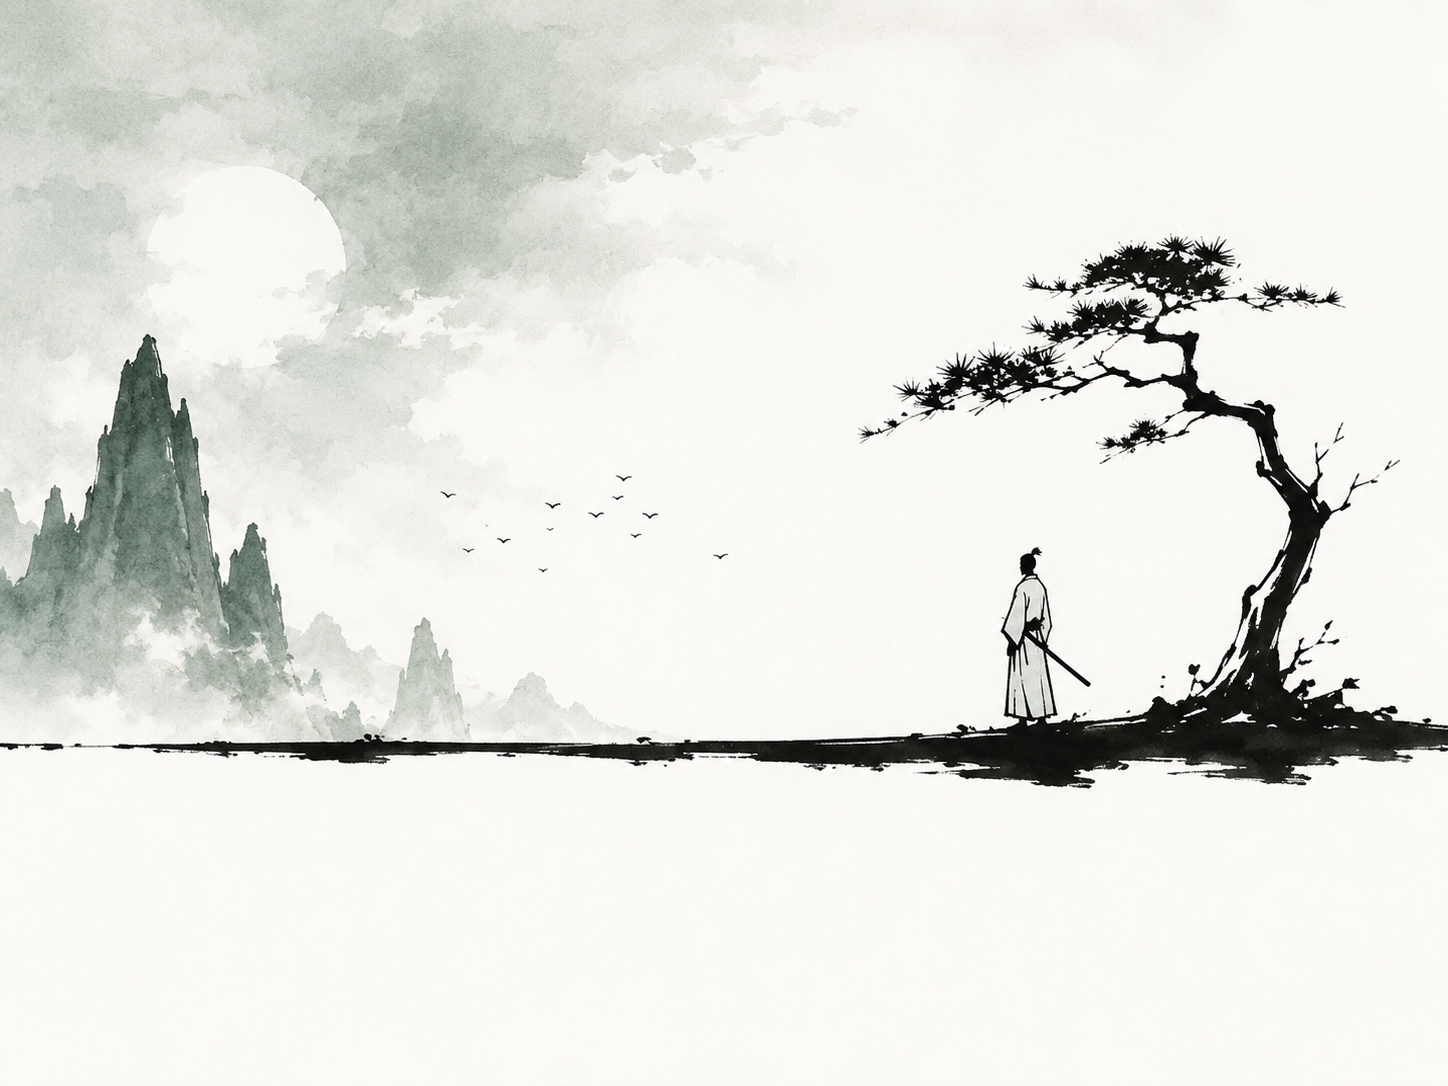
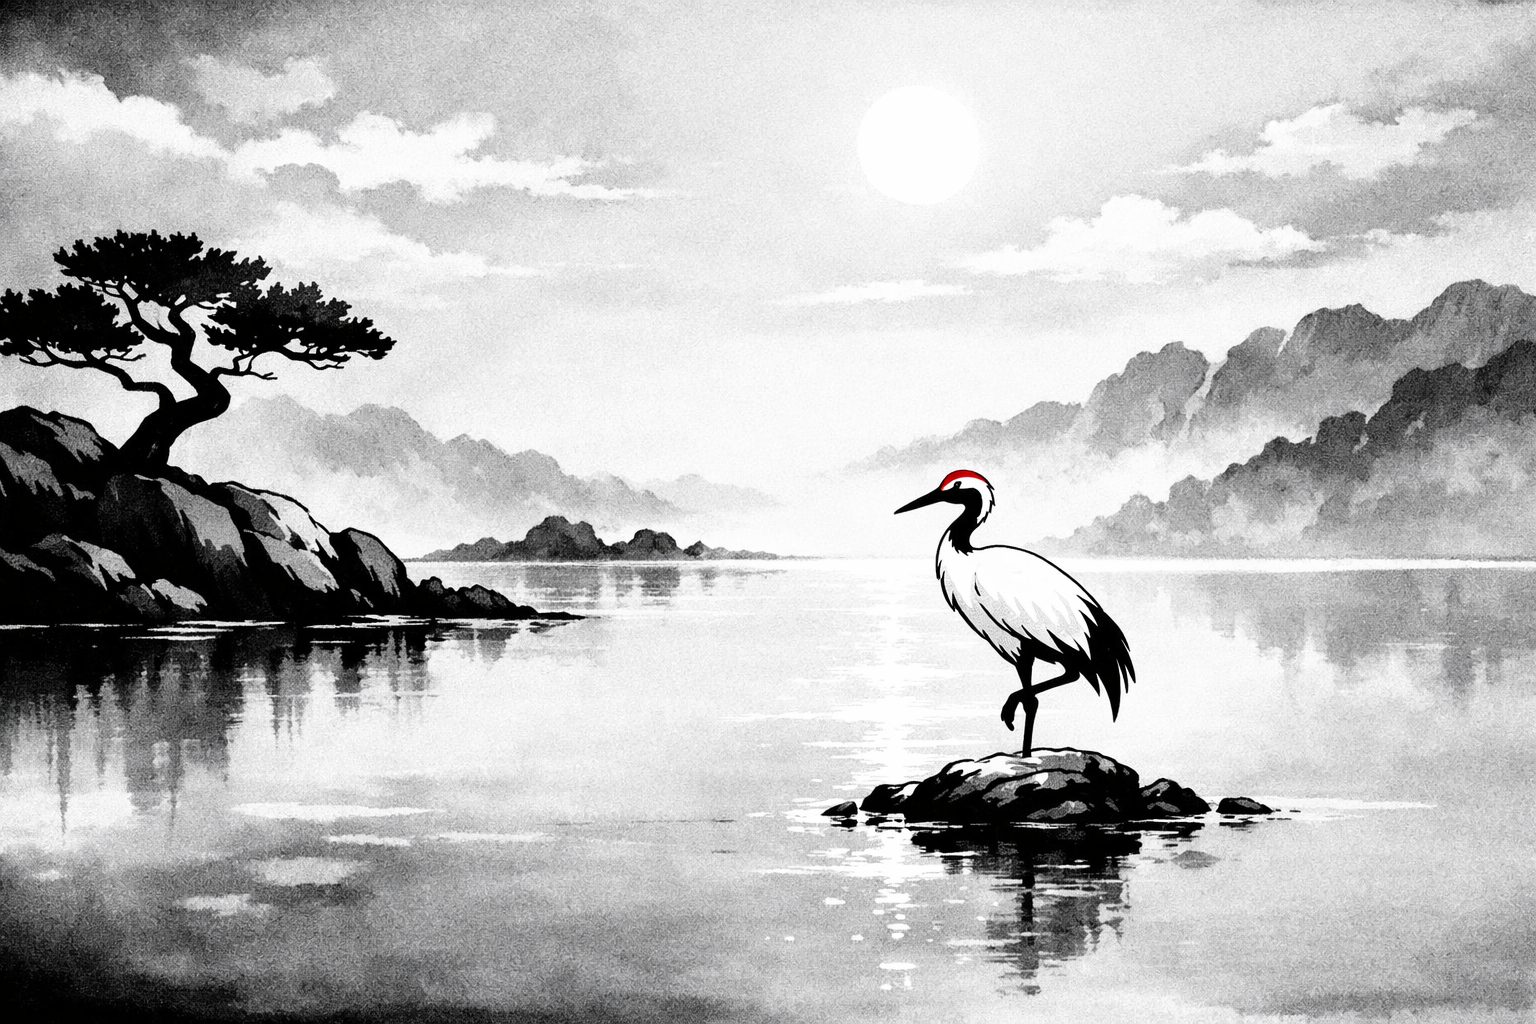
Added in the final image for the project, used the dominant colors for each tradition as an inset box-shadow, added the readme to complete the project

diff --git a/01-responsive-web-design/07-flexbox-photo-gallery/styles.css b/01-responsive-web-design/07-flexbox-photo-gallery/styles.css
@@ -58,6 +58,26 @@ body {
     border-radius: 8px;
 }
 
+.taoism {
+    box-shadow: 0 4px 12px rgba(0, 0, 0, 0.4), inset 0 0 10px rgba(80, 200, 120, 0.5);
+}
+
+.shintoism {
+    box-shadow: 0 4px 12px rgba(0, 0, 0, 0.4), inset 0 0 10px rgba(220, 20, 60, 0.5);
+}
+
+.neo-confucianism {
+    box-shadow: 0 4px 12px rgba(0, 0, 0, 0.4), inset 0 0 10px rgba(30, 144, 255, 0.5);
+}
+
+.buddhism {
+    box-shadow: 0 4px 12px rgba(0, 0, 0, 0.4), inset 0 0 10px rgba(255, 215, 0, 0.5);
+}
+
+.zen {
+    box-shadow: 0 4px 12px rgba(0, 0, 0, 0.4), inset 0 0 10px rgba(252, 252, 252, 0.5);
+}
+
 figcaption {
     margin-top: 0.75rem;
     line-height: 1.4;

diff --git a/01-responsive-web-design/07-flexbox-photo-gallery/index.html b/01-responsive-web-design/07-flexbox-photo-gallery/index.html
@@ -8,7 +8,7 @@
     </head>
     <body>
 
-        <h1>Flexbox Photo Gallery</h1>
+        <h1>Five Harmonies</h1>
 
         <section class = "gallery">    
             <figure class = "taoism picture">

diff --git a/01-responsive-web-design/07-flexbox-photo-gallery/README.md b/01-responsive-web-design/07-flexbox-photo-gallery/README.md
@@ -1,0 +1,41 @@
+Five Harmonies — Flexbox Photo Gallery
+
+    A themed photo gallery built as part of my Reimagined Coddy HTML & CSS Projects set. This is Project 07 in my responsive web   design learning path.
+
+About the Project
+
+    Five Harmonies is a spiritual gallery exploring five Eastern philosophical traditions — Taoism, Shinto, Neo-Confucianism, Buddhism, and Zen. Each tradition is represented by two images showing a seed-to-bloom progression: the first image introduces a core concept, the second builds on it.
+    The ten gallery images were generated using AI image generation tools (Microsoft Copilot) by crafting detailed prompts specifying style, palette, composition, and aspect ratio. The visual style draws from Samurai Jack's bold ink-line structure combined with Studio Ghibli's atmospheric watercolour washes, with each tradition carrying its own dominant colour.
+
+Tech Used
+
+    -HTML5 (semantic elements: section, figure, figcaption)
+    -CSS3 (Flexbox, media queries, CSS reset)
+
+What I Learned:
+
+    -Flexbox layout
+
+    -Using display: flex and flex-wrap: wrap to create a responsive multi-column gallery
+    -Understanding flex: grow shrink basis and how each value affects item sizing
+    -Using justify-content: center to centre cards with breathing room on either side
+    -Why * { box-sizing: border-box } is essential — padding was causing items to overflow their flex-basis width and preventing two columns from fitting on a row
+
+Responsive design
+
+    -Implemented a @media (max-width: 600px) breakpoint that switches the gallery from two cards per row to one card per row on mobile
+    -Disabled the hover lift effect on mobile inside the same breakpoint since hover doesn't apply to touch devices
+
+Images and object-fit
+
+    -Using object-fit: cover with a fixed height on images to maintain consistent card proportions regardless of the source image dimensions
+    -The difference between contain (letterboxes) and cover (fills and crops)
+
+AI image generation
+
+    -Prompting an AI model (Microsoft Copilot) to generate images with specific style references, colour palettes, composition briefs, and aspect ratios
+    -Generating images one at a time for consistency rather than in pairs
+
+Part of
+
+    -my-dev-journey — a structured self-taught development path documenting progress from HTML & CSS through to JavaScript and beyond.